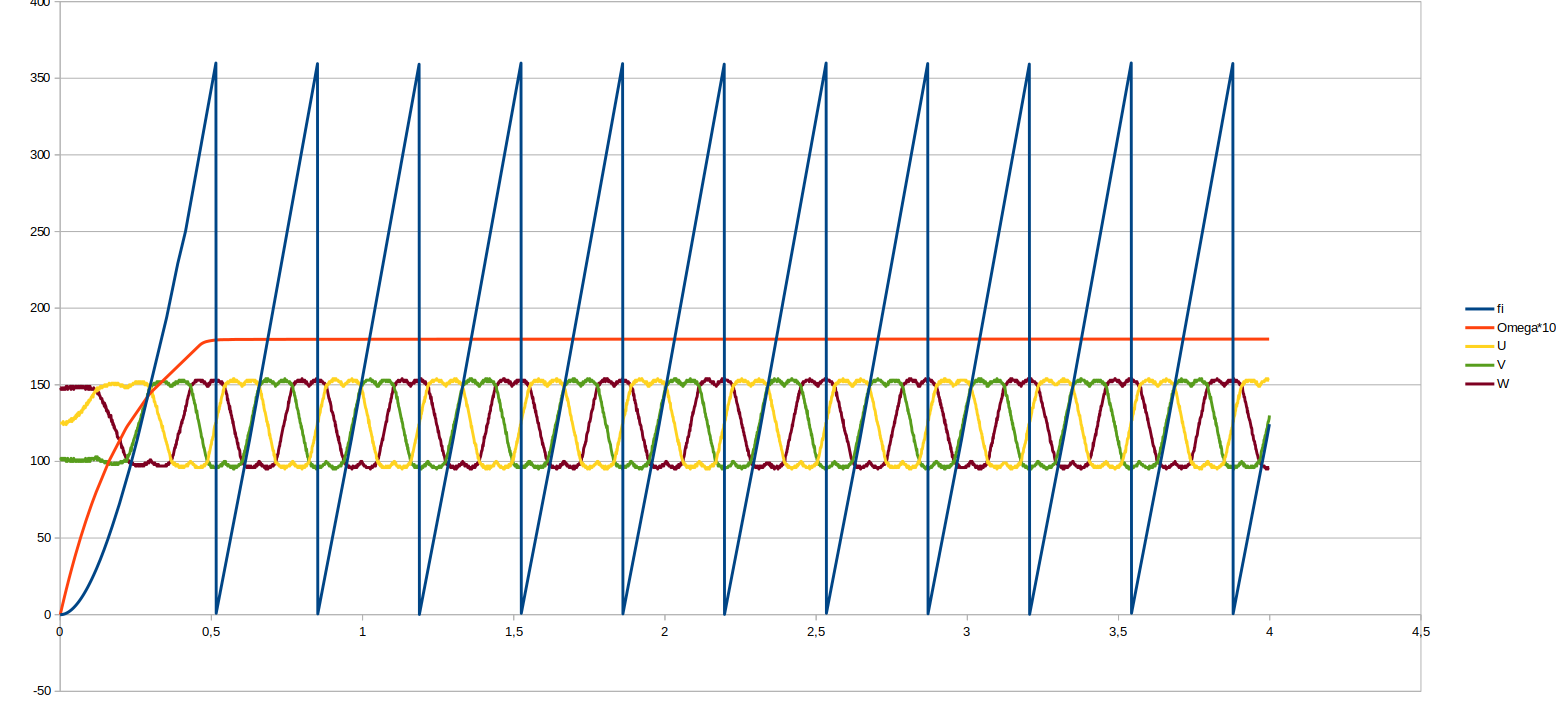
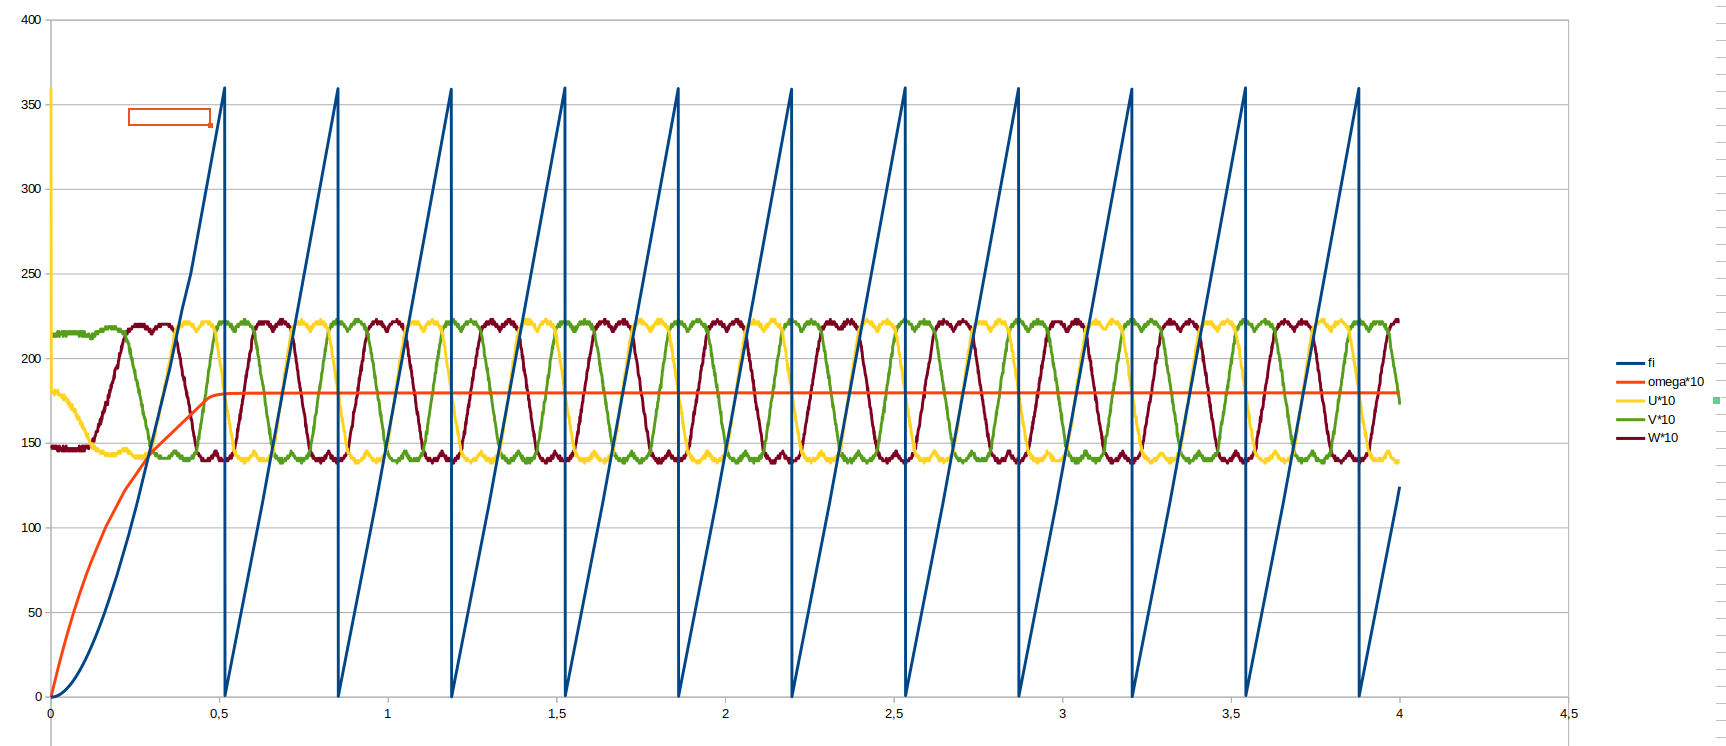
PWM driver returns duty cycles now output shows phase voltages in 100mV instead of raw PWM timing

diff --git a/src/moc.cpp b/src/moc.cpp
@@ -30,7 +30,7 @@ int main(void) {
 
 	//start PWM driver and print header for CSV
 	p.start();
-	std::cout<<"time;fi;omega;U;V;W;"<<std::endl;
+	std::cout<<"time;fi;omega*10;U*10;V*10;W*10;"<<std::endl;
 
 	//main simulation loop
 	for(uint64_t i=0; i<NS_IN_S*simSec; ++i){
@@ -47,11 +47,17 @@ int main(void) {
 		if((i % motorUpdatePeriod) == 0)
 			m.update(v.U, v.V, v.W, 0.001, MO);
 
-		//print some data
+		/**
+		 * print some data:
+		 * - rotor angle (electrical)
+		 * - angle speed * 10 (electrical)
+		 * - phase voltages * 10
+		 */
 		if(i % displayPeriod == 0){
-			uint16_t U, V, W;
+			float U, V, W;
 			p.getDuty(U, V, W);
-			std::cout<<(float)i/(float)NS_IN_S<<";"<<MO.fi*360/(2*M_PI)<<";"<<MO.omega*10<<";"<<U<<";"<<V<<";"<<W<<";"<<std::endl;
+			std::cout<<(float)i/(float)NS_IN_S<<";"<<MO.fi*360/(2*M_PI)<<";"<<MO.omega*10<<";"
+					<<10*U*Motor::BRIDGE_VOLTAGE<<";"<<10*V*Motor::BRIDGE_VOLTAGE<<";"<<10*W*Motor::BRIDGE_VOLTAGE<<";"<<std::endl;
 		}
 	}
 

diff --git a/src/pwmdriver.hpp b/src/pwmdriver.hpp
@@ -32,18 +32,16 @@ public:
 	}
 
 	/**
-	 * get pattern timing info
-	 *
-	 * TODO: return real duty cycle calculated from these values
+	 * return duty cycle
 	 *
 	 * @param U
 	 * @param V
 	 * @param W
 	 */
-	void getDuty(uint16_t& U, uint16_t& V, uint16_t& W){
-		U = duty_U;
-		V = duty_V;
-		W = duty_W;
+	void getDuty(float& U, float& V, float& W){
+		U = ((float)(pwmPeriodCnt - duty_U))/(float)pwmPeriodCnt;
+		V = ((float)(pwmPeriodCnt - duty_V))/(float)pwmPeriodCnt;
+		W = ((float)(pwmPeriodCnt - duty_W))/(float)pwmPeriodCnt;
 	}
 
 	/**

diff --git a/src/Motor.hpp b/src/Motor.hpp
@@ -8,7 +8,7 @@ class Motor{
 
 private:
 	float TIME_DELTA;
-
+public:
 	// +++ electrical params +++
 	//grid
 	static constexpr float BRIDGE_VOLTAGE = 36.f;
@@ -29,8 +29,6 @@ private:
 
 	//value got from https://discourse.odriverobotics.com/t/project-hoverarm/441
 	static constexpr float J = 0.00701;					//moment of inertia (Nms^2 or kgm^2)
-
-public:
 
 	//output struct with aggregated info
 	struct Output{
